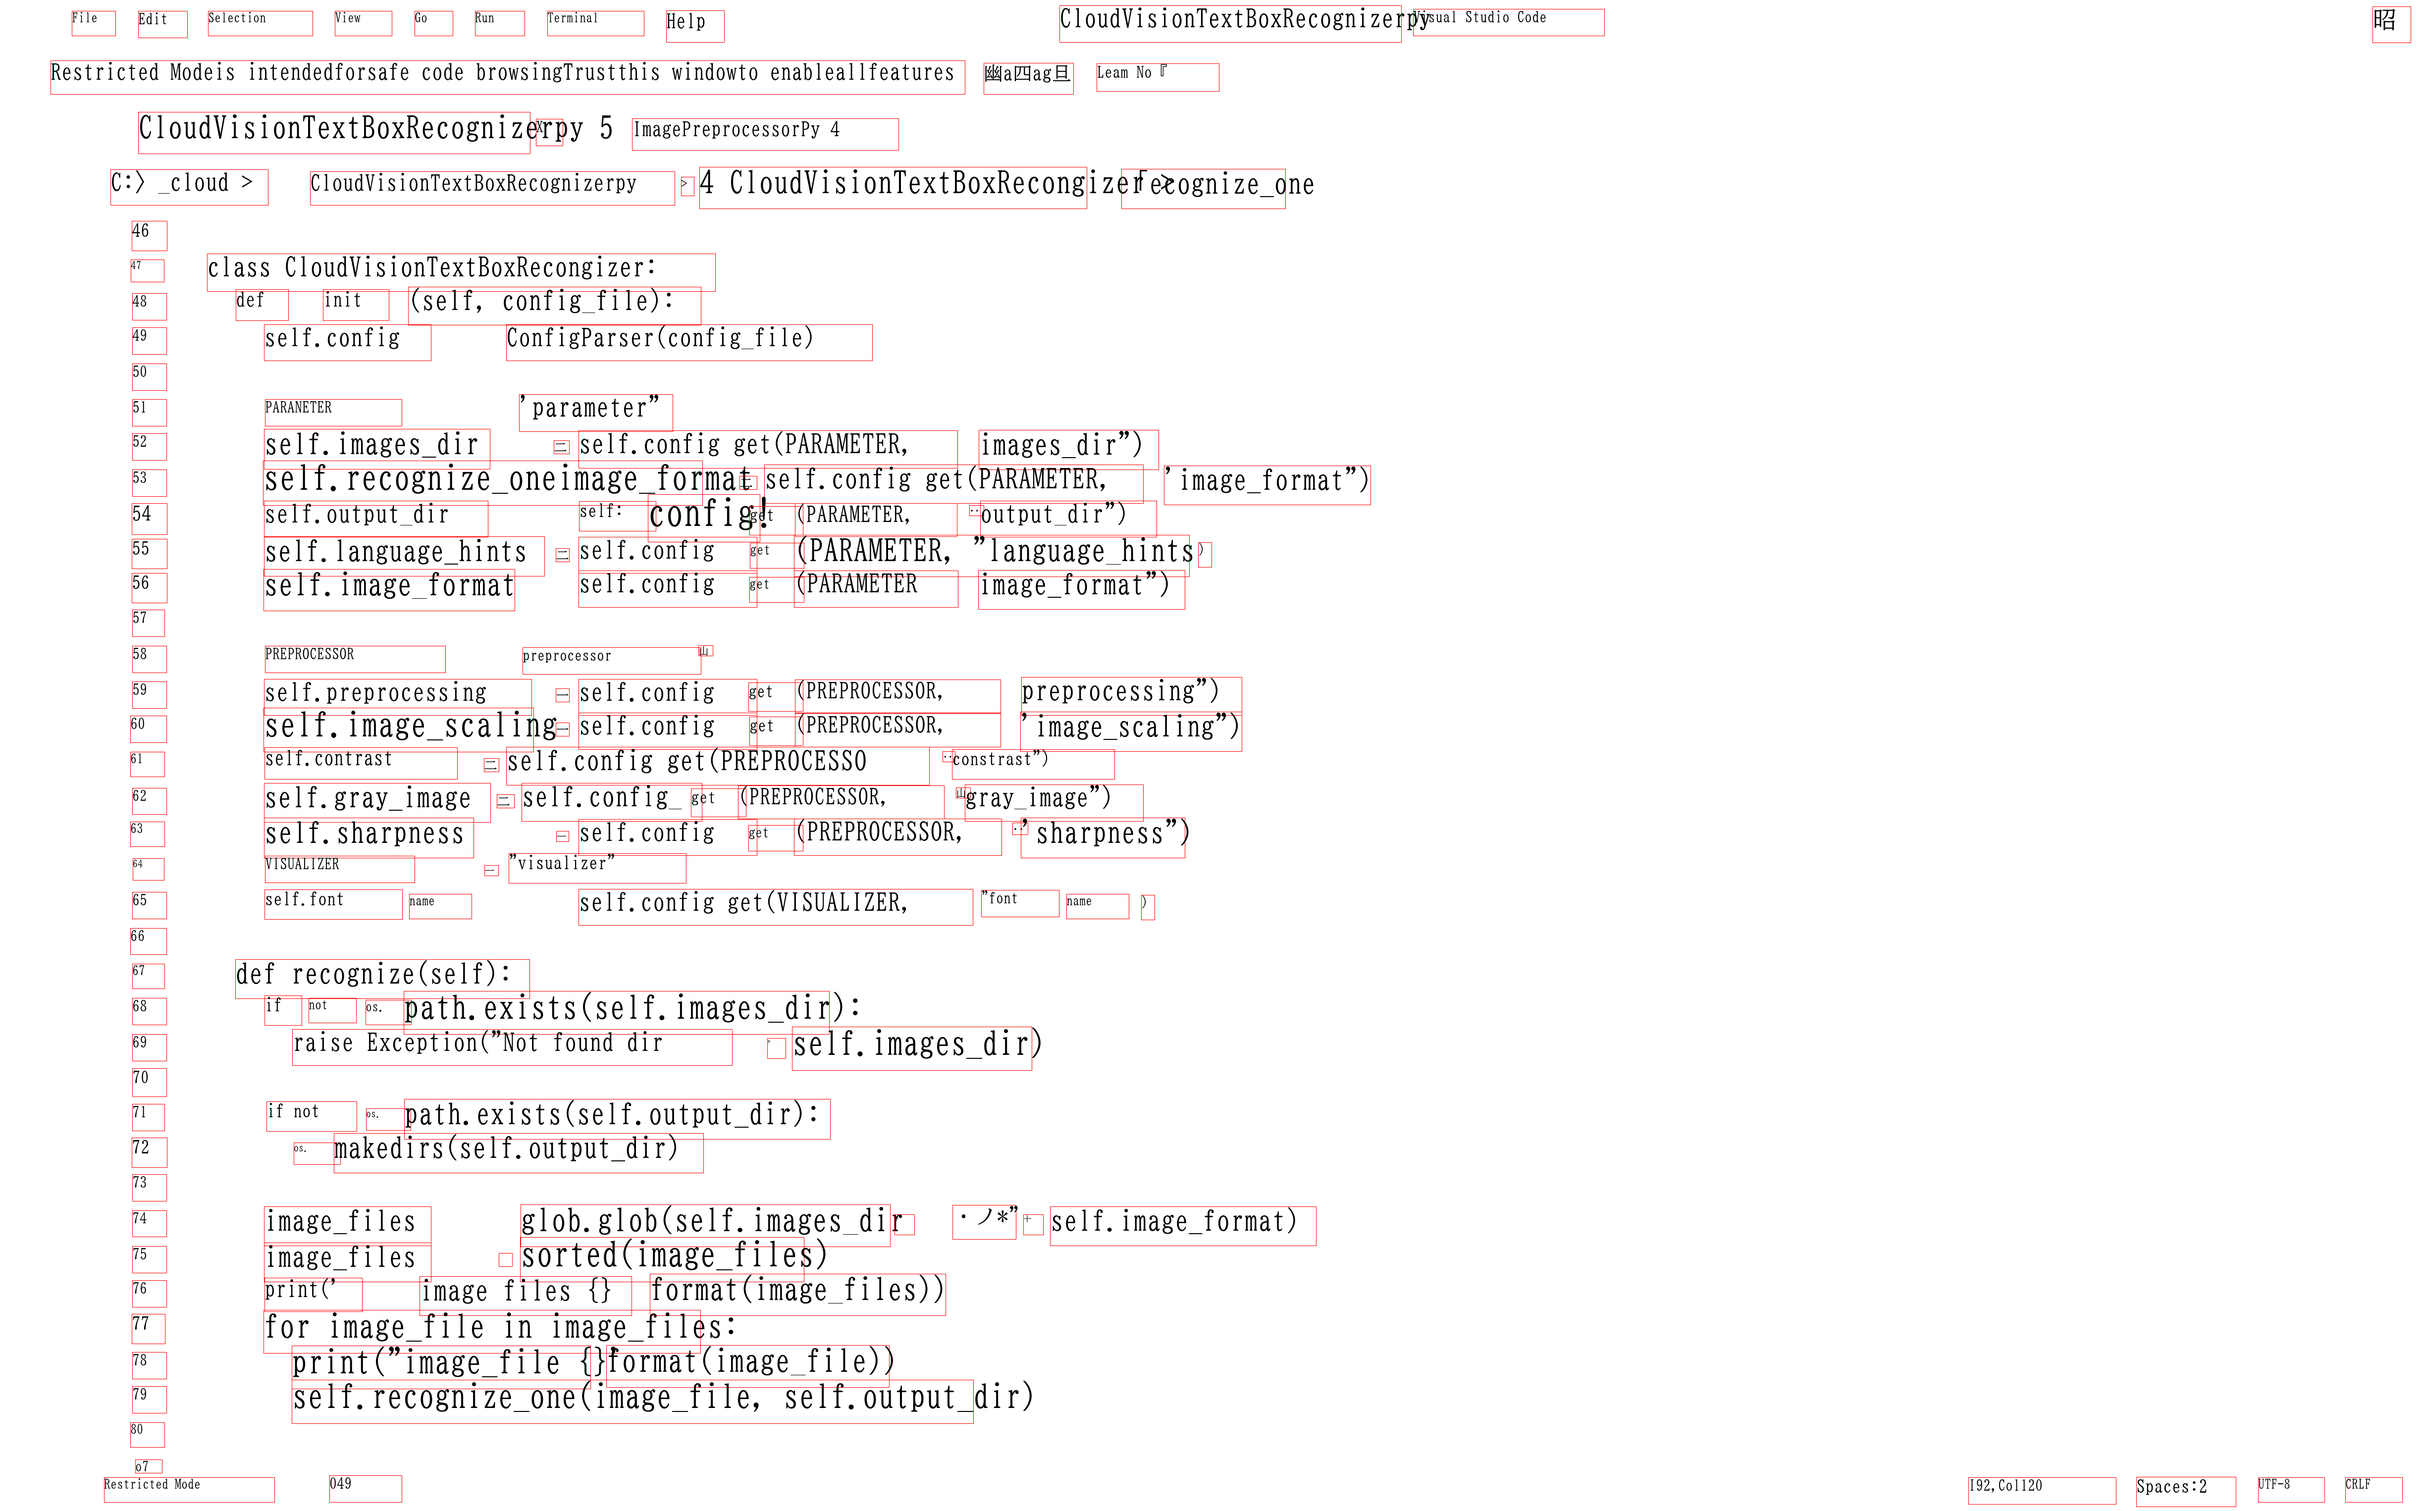
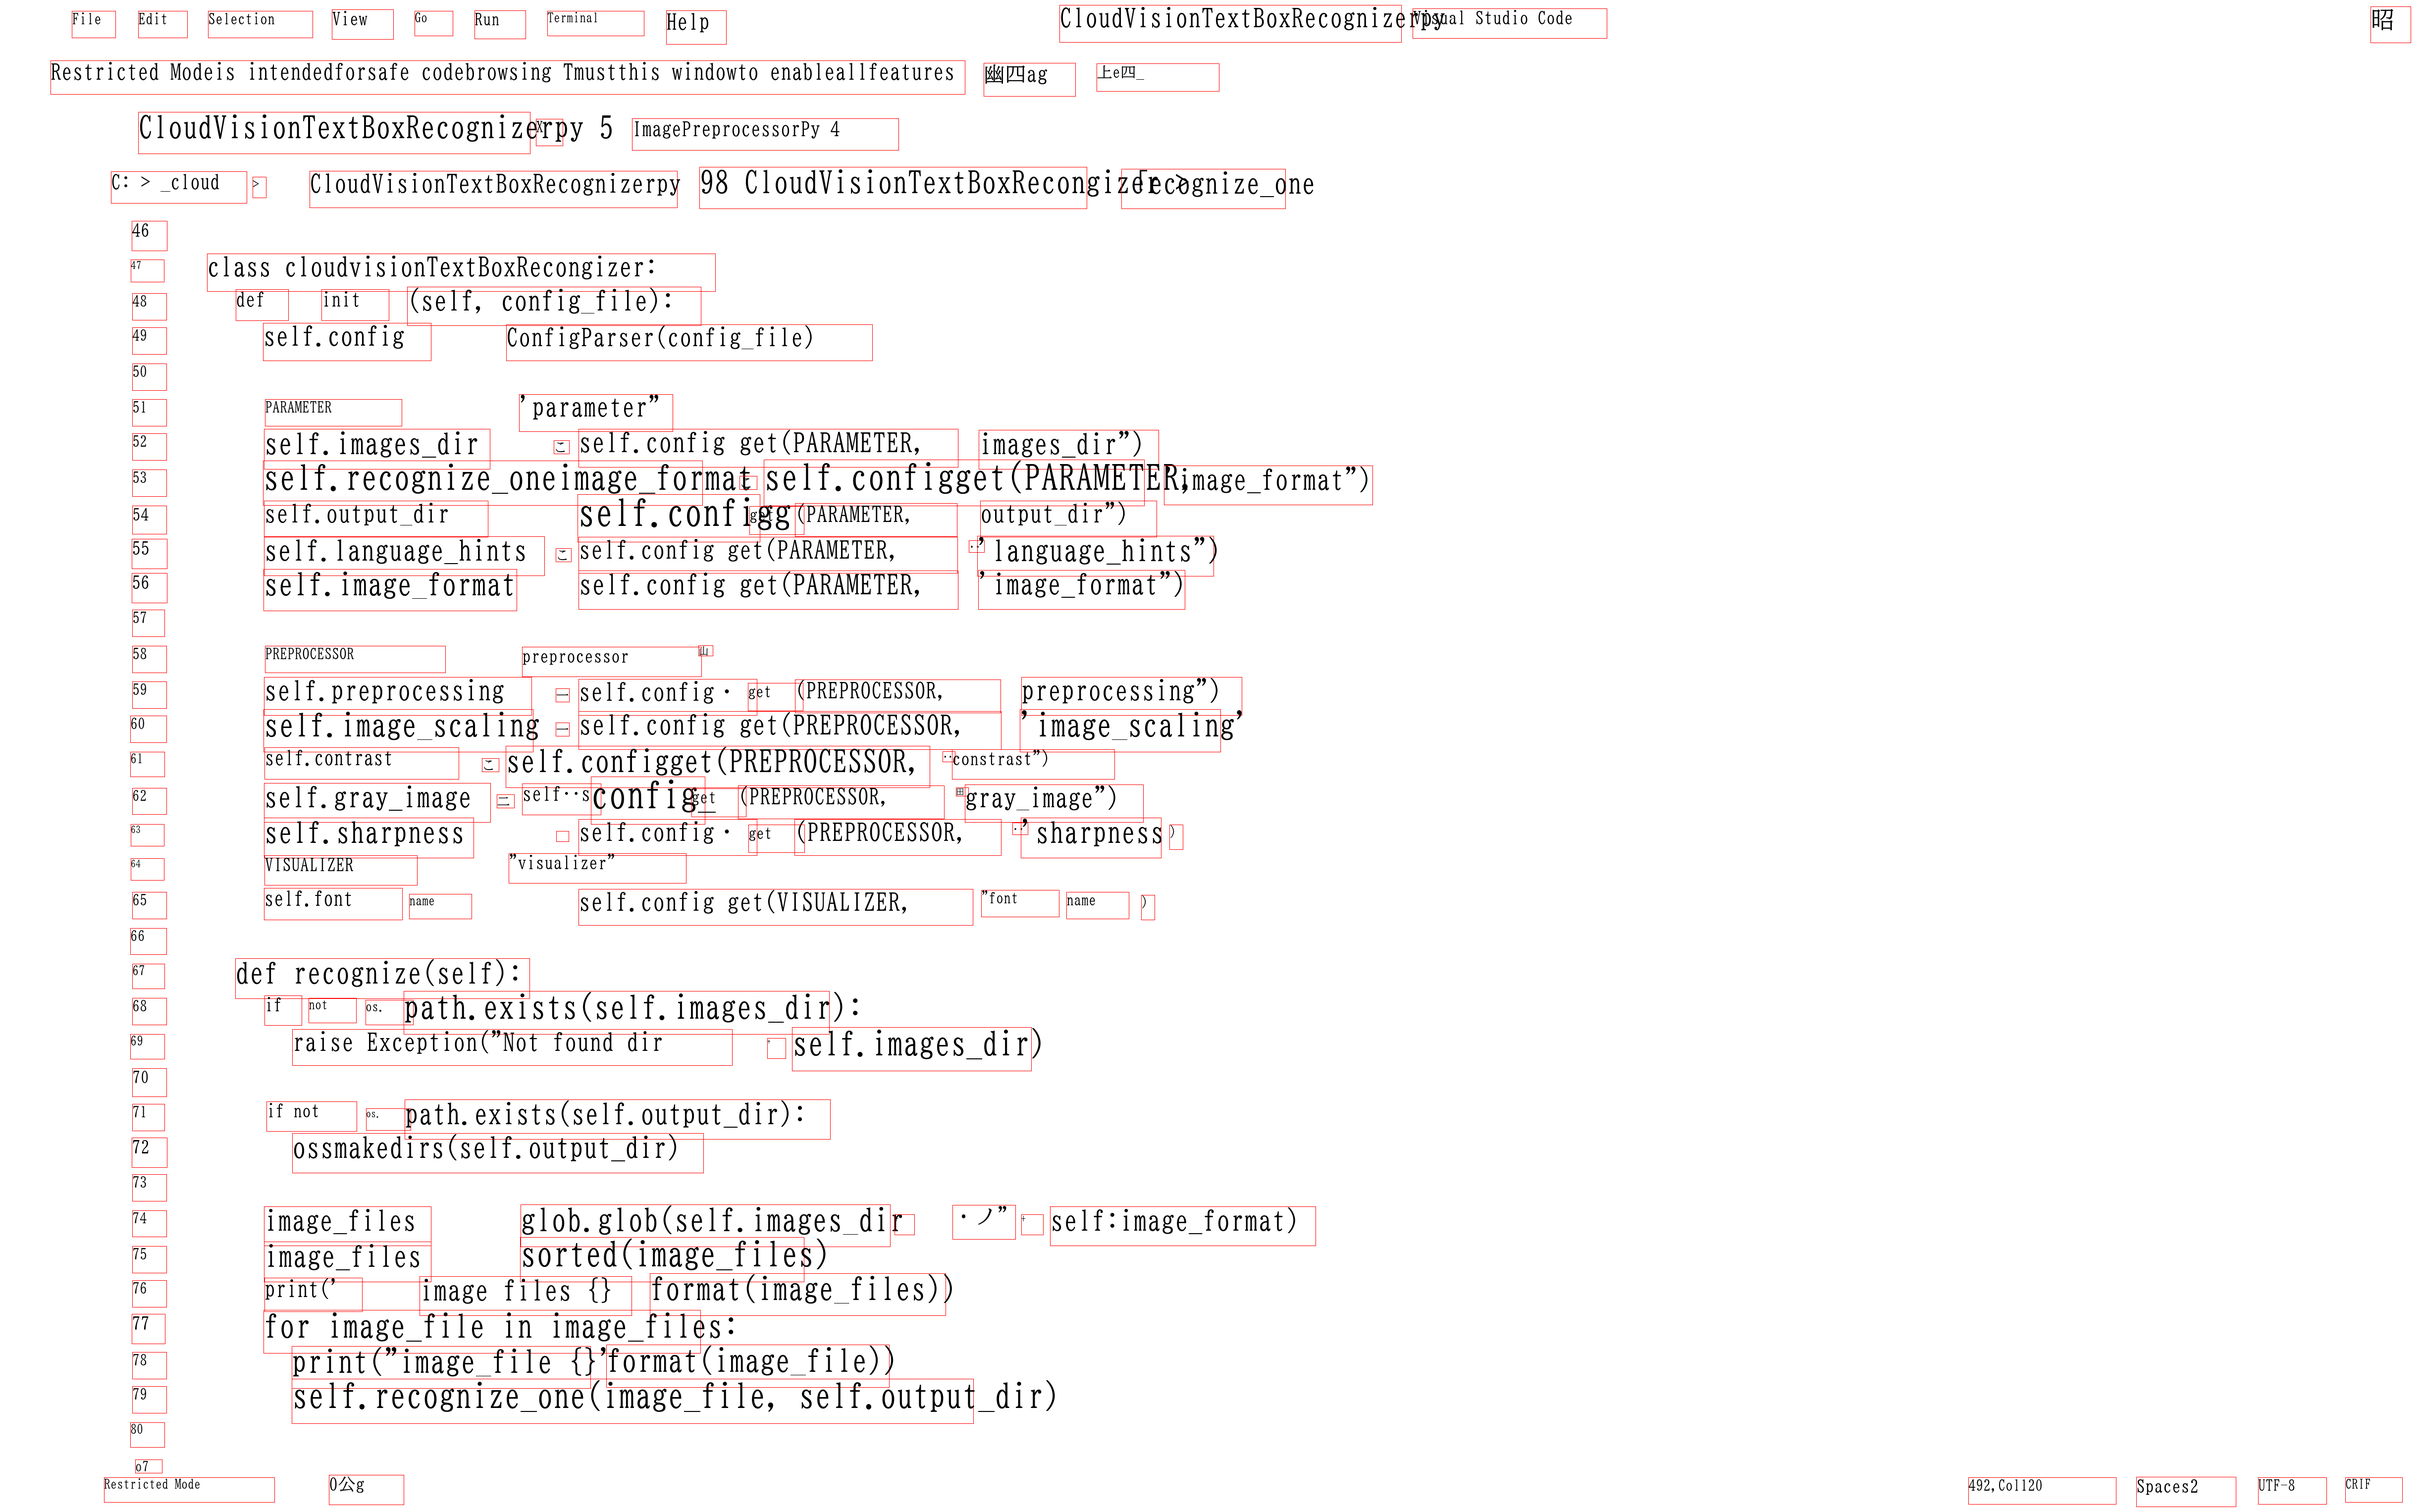
Initial commit

diff --git a/EasyOCRTextBoxRecognizer.py b/EasyOCRTextBoxRecognizer.py
@@ -15,7 +15,6 @@
 
 # EasyOCRTextBoxRecognizer.py
 # 2022/10/20
-# toshiyuki.arai@xenera.jp
 # This works on Windows11
 
 import os
@@ -49,7 +48,7 @@ class EasyOCRTextBoxRecognizer:
     PREPROCESSOR        = "preprocessor"
     self.preprocessing  = self.config.get(PREPROCESSOR, "preprocessing") 
     self.image_scaling  = self.config.get(PREPROCESSOR, "image_scaling")
-    self.contrast       = self.config.get(PREPROCESSOR, "constrast")
+    self.contrast       = self.config.get(PREPROCESSOR, "contrast")
     self.gray_image     = self.config.get(PREPROCESSOR, "gray_image")
     self.sharpness      = self.config.get(PREPROCESSOR, "sharpness")
 

diff --git a/RecognizedObjectsVisualizer.py b/RecognizedObjectsVisualizer.py
@@ -43,7 +43,7 @@ class RecognizedObjectsVisualizer:
         direction = TEXT_HORIZONTAL
       if fsize >30:
         fsize -=24
-      
+      fsize = int(fsize)
       font = ImageFont.truetype(self.font_name, fsize) 
     except IOError:
       print("Failed to font_name {} size {} ".format(self.font_name, fsize))

diff --git a/ImagePreprocessor.py b/ImagePreprocessor.py
@@ -33,7 +33,7 @@ class ImagePreprocessor:
 
     self.image_scaling = image_scaling
 
-    self.constrast     = contrast
+    self.contrast      = contrast
     self.sharpness     = sharpness
     
     if os.path.exists(image_file):
